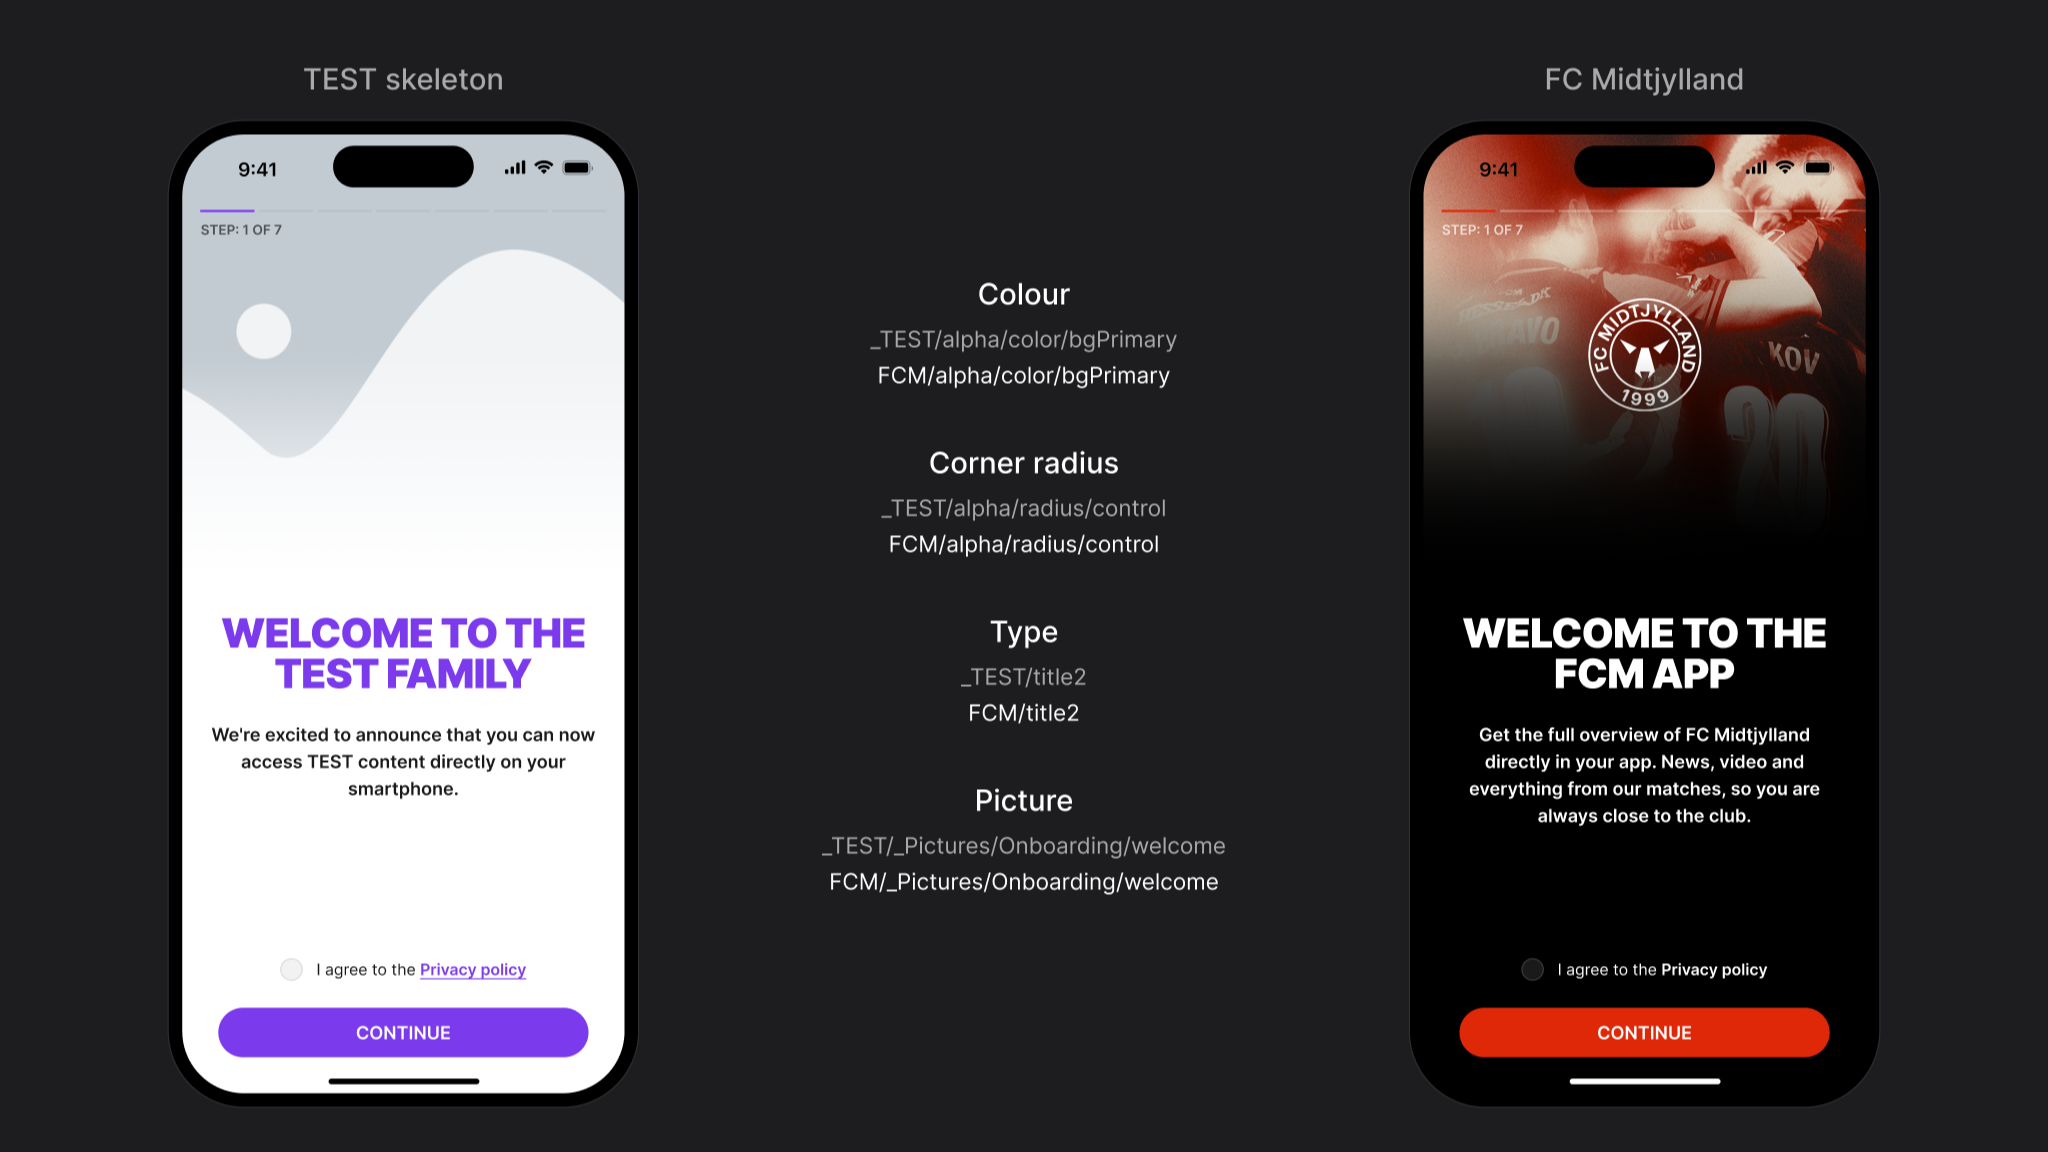
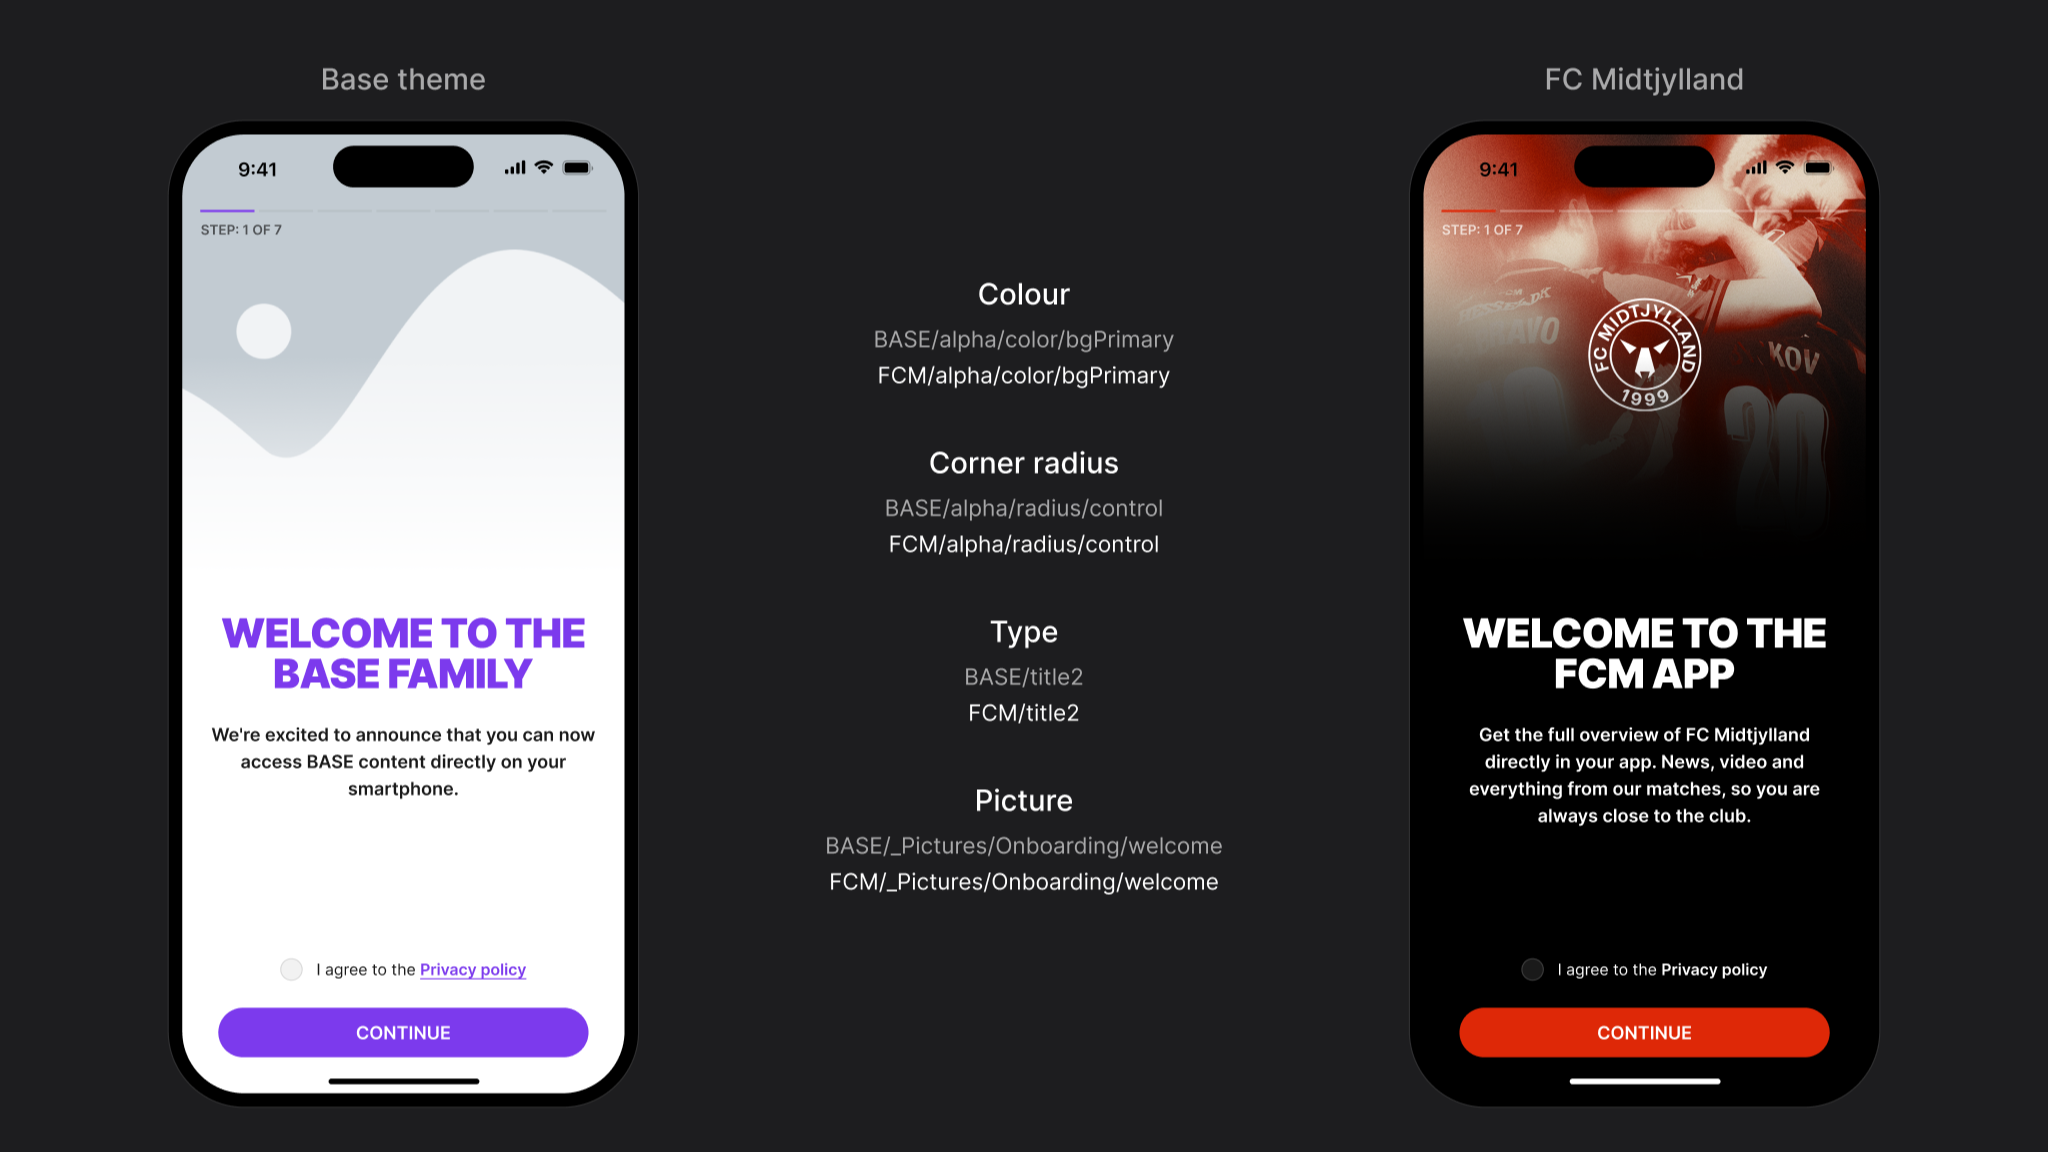
Design system case: show BASE instead of TEST everywhere
The reader does not need the Figma file's internal name. Images now say
BASE (column and label in the colour and type tables, team label in the
MatchCard examples, token names, base onboarding screen copy, toy base
screen); "One skeleton" in the decision image became "One base theme";
copy drops "named TEST in the file". Also fixes the 1px light row at the
bottom of 1152px-tall exports (skeleton-pictures, skeleton-to-club).

Claude-Session: https://claude.ai/code/session_01NVvHEzc9sgvxv5K1s7WXs6

diff --git a/design-system.html b/design-system.html
@@ -92,7 +92,7 @@
 <ul class="reveal"><li>10+&nbsp;club brands on one base theme, each with its own colours, fonts, corner radii and pictures</li><li>Some clubs may want a dark theme, so a theme needs room for more than one set of colours</li><li>New clubs join while other club apps are live, so a component can’t simply be deleted</li><li>Developers build from Dev Mode, so names and values in Figma are the handoff</li></ul>
 <h2 class="reveal">Process</h2>
 <p class="reveal">We based the colour layer on the Reshaped color system. Names describe a role — bg-primary, fg-neutral, on-bg-primary — and every club fills in the same table. Alpha, beta and gamma are variants a club can use for a dark theme.</p>
-<div class="media reveal"><figure class="fig"><img src="img/design-system/process-semantic-colors.webp" alt="Semantic colour table: token names in rows, club themes TEST (the base theme), AAB, AB, ACH, B93, BIF, DBU, EFB, FCK, FCM, FTC, KVM, LBK and VFF in columns, with alpha, beta and gamma variants" width="2048" height="1152" loading="lazy" decoding="async"><figcaption>One token name, a value per club</figcaption></figure></div>
+<div class="media reveal"><figure class="fig"><img src="img/design-system/process-semantic-colors.webp" alt="Semantic colour table: token names in rows, club themes BASE, AAB, AB, ACH, B93, BIF, DBU, EFB, FCK, FCM, FTC, KVM, LBK and VFF in columns, with alpha, beta and gamma variants" width="2048" height="1152" loading="lazy" decoding="async"><figcaption>One token name, a value per club</figcaption></figure></div>
 <p class="reveal">Type follows the same rule. Every club has the same text styles, from display to textLinkSmall, in its own font.</p>
 <div class="media reveal"><figure class="fig"><img src="img/design-system/process-text-styles.webp" alt="Text styles of the base theme, DBU, FC Copenhagen and FC Midtjylland side by side: the same style names in four club fonts" width="2048" height="1152" loading="lazy" decoding="async"><figcaption>Same style names, four club fonts</figcaption></figure></div>
 <h2 class="reveal">Key decisions</h2>
@@ -103,7 +103,7 @@
 <p class="reveal">Options: delete it, or keep it under a _LEGACY name that points to the new one. We kept it: club apps were live, and a deleted component breaks screens nobody is looking at. The name tells the next designer what to use instead. Cost: we didn’t always find time to swap every instance, so some legacy parts stayed in the file.</p>
 <div class="media reveal"><figure class="fig"><img src="img/design-system/decision-legacy.webp" alt="Before: three states of the old match header, named _MatchHeaderLEGACY (Use MatchCard component). After: four variants of the new MatchCard" width="2048" height="1152" loading="lazy" decoding="async"><figcaption>The old header names its replacement</figcaption></figure></div>
 <h2 class="reveal">One base theme, a theme per club</h2>
-<p class="reveal">Every feature is designed once, in the neutral base theme, named TEST in the file. A club theme is a group of variables and styles with the same names: colours, corner radii, fonts, shadows and pictures. The plugin swaps the base group for the club’s group across a batch of screens.</p>
+<p class="reveal">Every feature is designed once, in the neutral base theme. A club theme is a group of variables and styles with the same names: colours, corner radii, fonts, shadows and pictures. The plugin swaps the base group for the club’s group across a batch of screens.</p>
 <p class="reveal">Pictures were our own find. Logos, onboarding photos, stories and article images are named per club too, so the plugin changes them along with the colours.</p>
 <div class="media reveal"><figure class="fig"><img src="img/design-system/skeleton-pictures.webp" alt="Base theme onboarding screen next to the FC Midtjylland one, with the colour, corner radius, text style and picture names that the plugin swaps listed between them" width="2048" height="1152" loading="lazy" decoding="async"><figcaption>Four names change, the layout stays</figcaption></figure></div>
 <h2 class="reveal">Components that hold up in every club</h2>

diff --git a/CASE-TEMPLATE.md b/CASE-TEMPLATE.md
@@ -144,7 +144,7 @@ Export: `cwebp` settings and folders exactly as in `CLAUDE.md` §6.2.
 - One idea per paragraph, 1–3 sentences. Plain words; no "seamless", "intuitive", "delightful", "leverage".
 - Every constraint must be answered later. If it isn’t, cut the constraint.
 - Lessons are specific: "Provider rules decide the UX — Eventii forced an email path", not "Simplicity matters".
-- The neutral theme every feature is designed in is the **base theme** on the site (it is the `TEST` group in Figma). Never "TEST skeleton" or "skeleton" in site copy; token names like `_TEST/alpha/color/bgPrimary` and Figma page names stay as they are.
+- The neutral theme every feature is designed in is the **base theme** on the site (the `TEST` group in Figma). The reader never sees TEST: not in copy, alts or images — images show BASE (e.g. `BASE/alpha/color/bgPrimary`). Never "skeleton" either. Pass on the idea, not the file’s internal names.
 
 ---
 
